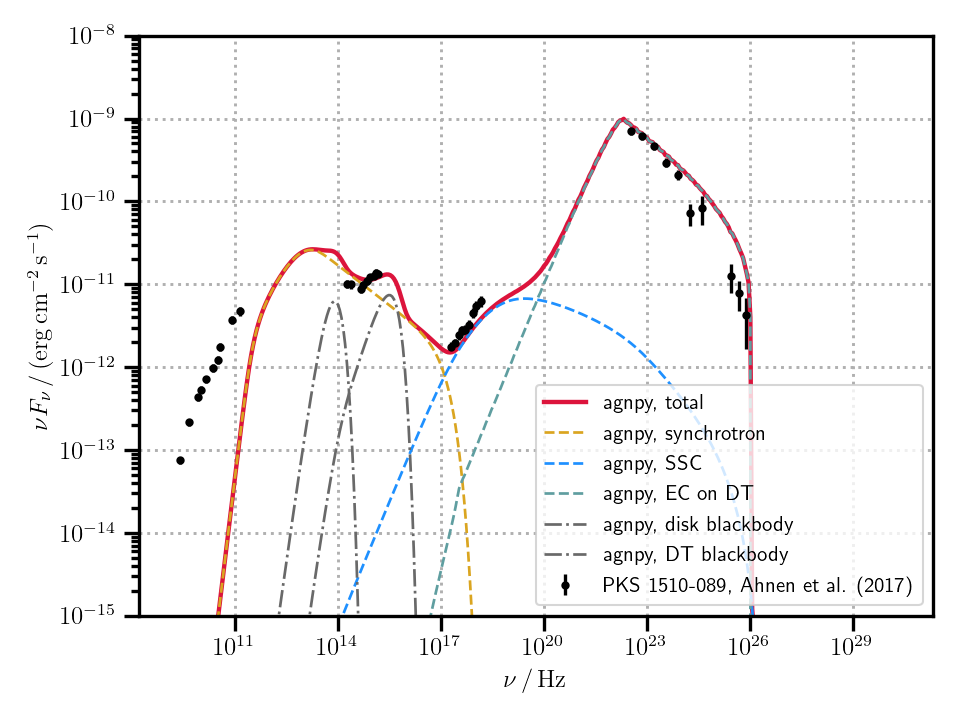
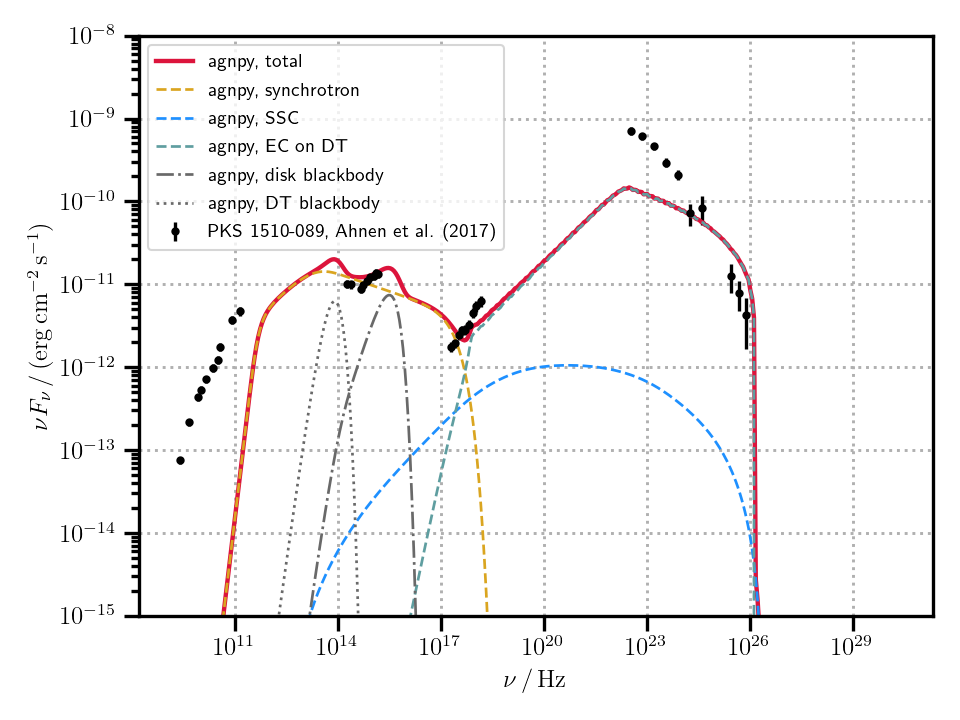
fit for PKS1510 still not good

diff --git a/PKS1510-089_fit.py b/PKS1510-089_fit.py
@@ -33,7 +33,7 @@ gamma_to_integrate = np.logspace(0, 7, gamma_size)
 class BrokenPowerLawEC(model.RegriddableModel1D):
     """wrapper of agnpy's synchrotron, SSC and EC classes. A broken power-law is assumed for the electron spectrum."""
 
-    def __init__(self, name="bpwl_ec"):
+    def __init__(self, name="ec"):
         # EED parameters
         self.log10_k_e = model.Parameter(name, "log10_k_e", -1.0, min=-10.0, max=10.0)
         self.p1 = model.Parameter(name, "p1", 2.1, min=1.0, max=5.0)
@@ -235,7 +235,7 @@ alpha_jet = 0.047  # jet opening angle
 delta_D = 25
 Beta = np.sqrt(1 - 1 / np.power(Gamma, 2))  # jet relativistic speed
 mu_s = (1 - 1 / (Gamma * delta_D)) / Beta  # viewing angle
-B = 0.2 * u.G
+B = 0.5 * u.G
 # disk
 L_disk = 6.7e45 * u.Unit("erg s-1")  # disk luminosity
 M_BH = 5.71 * 1e7 * M_sun
@@ -246,7 +246,7 @@ R_in = 6 * R_g
 R_out = 10000 * R_g
 # DT
 xi_dt = 0.6  # fraction of disk luminosity reprocessed by the DT
-R_dt = 6.47e18 * u.cm  # radius of DT
+R_dt = 2.15 * u.pc  # radius of DT
 T_dt = 1e3 * u.K
 # location of the emission region
 r = 6e17 * u.cm
@@ -289,13 +289,13 @@ model.log10_r.freeze()
 model.log10_B = np.log10(B.to_value("G"))
 model.log10_B.freeze()
 # - EED
-model.log10_k_e = np.log10(0.15)
+model.log10_k_e = np.log10(1e-2)
 model.p1 = 2.1
 model.p2 = 3.5
-model.log10_gamma_b = np.log10(350)
-model.log10_gamma_min = np.log10(2)
+model.log10_gamma_b = np.log10(9e2)
+model.log10_gamma_min = np.log10(3)
 model.log10_gamma_min.freeze()
-model.log10_gamma_max = np.log10(5e4)
+model.log10_gamma_max = np.log10(6e4)
 model.log10_gamma_max.freeze()
 print(model)
 # plot the starting model
@@ -311,7 +311,7 @@ fitter = Fit(sed, model, stat=Chi2(), method=LevMar())
 # use confidence to estimate the errors
 # fitter.estmethod = Confidence()
 # fitter.estmethod.parallel = True
-min_x = 1e11
+min_x = 1e10
 max_x = 1e30
 sed.notice(min_x, max_x)
 print(fitter)
@@ -325,7 +325,7 @@ print(results_1.format())
 # perform the second fit, we are varying also the blob parameters
 print("-- second iteration with spectral and blob parameters free")
 # model.delta_D.thaw()
-model.log10_B.thaw()
+# model.log10_B.thaw()
 # model.log10_r.thaw()
 results_2 = fitter.fit()
 errors_2 = fitter.est_errors()
@@ -418,11 +418,11 @@ ax.loglog(nu, ec_dt_sed, ls="--", lw=1.3, color="cadetblue", label="agnpy, EC on
 ax.loglog(
     nu, disk_bb_sed, ls="-.", lw=1.3, color="dimgray", label="agnpy, disk blackbody"
 )
-ax.loglog(nu, dt_bb_sed, ls="-.", lw=1.3, color="dimgray", label="agnpy, DT blackbody")
+ax.loglog(nu, dt_bb_sed, ls=":", lw=1.3, color="dimgray", label="agnpy, DT blackbody")
 ax.set_xlabel(sed_x_label)
 ax.set_ylabel(sed_y_label)
 ax.set_ylim([1e-15, 1e-8])
-ax.legend(loc="best", fontsize=10)
+ax.legend(loc="best", fontsize=9)
 plt.show()
 fig.savefig("figures/PKS1510-089_fit.png")
 fig.savefig("figures/PKS1510-089_fit.pdf")

diff --git a/Mrk421_fit.py b/Mrk421_fit.py
@@ -196,6 +196,13 @@ print("-- fit succesful?", results_2.succeeded)
 print(results_2.format())
 print("-- errors estimation:")
 print(errors_2.format())
+# plot the final model
+nu = np.logspace(9, 30, 200)
+plt.errorbar(sed.x, sed.y, yerr=sed.get_error(), ls="", marker=".", color="k")
+plt.loglog(nu, model(nu), color="crimson")
+plt.ylim([1e-14, 1e-9])
+plt.show()
+
 
 # plot the best fit model with the individual components
 k_e = 10 ** model.log10_k_e.val * u.Unit("cm-3")
